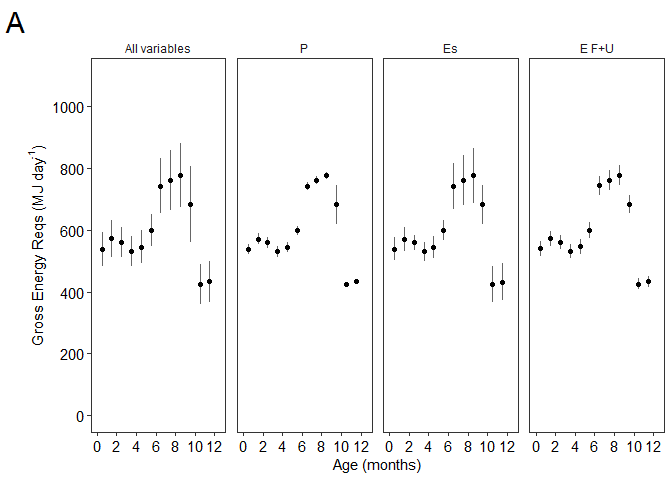
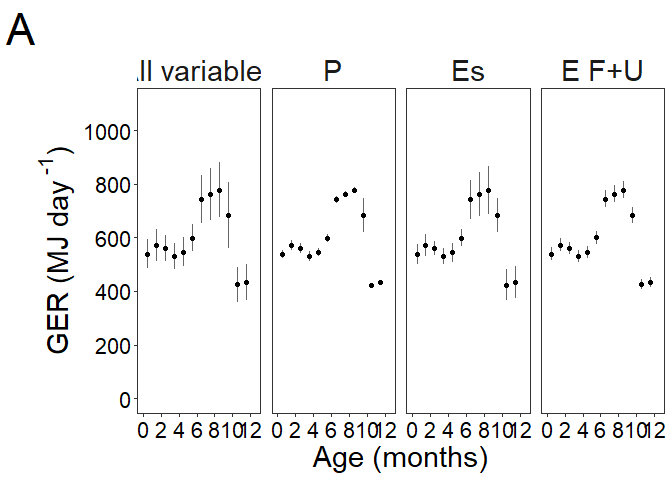
updating Es charts

diff --git a/results_for_paper/EnergeticsModeling_GreyWhales_Results_charts.md b/results_for_paper/EnergeticsModeling_GreyWhales_Results_charts.md
@@ -1,7 +1,7 @@
 ENERGY REQUIREMENTS OF GREY WHALES
 ================
 Selina Agbayani
-05 August, 2025
+06 August, 2025
 
 ## RESULTS
 
@@ -117,36 +117,6 @@ requirements (*GER*) for grey whale calves.
 Figure 15. Results for the sensitivity analysis on gross energy
 requirements (*GER*) for juveniles and non-reproductive adults.
 
-``` r
-multiplot(plot_predict_GER_sensAnalysis_phase1_permth,
-          plot_predict_GER_table_sensAnalysis_phase2,
-          cols=1)
-```
-
-![](EnergeticsModeling_GreyWhales_Results_charts_files/figure-gfm/panel%20plot%20Es%20sensitivity%20analysis%20all%20stages-1.png)<!-- -->
-
-``` r
-jpeg(filename = paste0(Figurespath,"/GER_sensanalysis_calves_juvadults_multiplot.jpg"), 
-     width = 2800,
-     height = 1500,
-     pointsize = 35, 
-     quality = 100, 
-     bg = "white", 
-     res = 300, 
-     restoreConsole = TRUE)
-
-
-p <- multiplot(plot_predict_GER_sensAnalysis_phase1_permth,
-          plot_predict_GER_table_sensAnalysis_phase2,
-          cols=1)
-
-
-dev.off()
-```
-
-    ## png 
-    ##   2
-
 #### Pregnant grey whales (assuming GER for foraging while pregnant includes first 6 months of lactation)
 
 ![](EnergeticsModeling_GreyWhales_Results_charts_files/figure-gfm/predict_GER_table_sensAnalysis_preg-1.png)<!-- -->
@@ -164,29 +134,52 @@ requirements (*GER*) for lactating females. GER calf represents the
 energy required for the last 3.6 months of nursing while mother and calf
 are in the foraging grounds.
 
+``` r
+multiplot(plot_predict_GER_sensAnalysis_phase1_permth,
+          plot_predict_GER_table_sensAnalysis_phase2,
+          plot_predict_GER_sensAnalysis_preg,  
+          plot_predict_GER_sensAnalysis_lact, 
+          cols=1)
+```
+
+![](EnergeticsModeling_GreyWhales_Results_charts_files/figure-gfm/panel%20plot%20Es%20sensitivity%20analysis%20all%20stages-1.png)<!-- -->
+
+``` r
+jpeg(filename = paste0(Figurespath,"/GER_sensanalysis_allstages_multiplot.jpg"), 
+     width = 5000,
+     height = 5000,
+     pointsize = 35, 
+     quality = 100, 
+     bg = "white", 
+     res = 300, 
+     restoreConsole = TRUE)
+
+
+p <- multiplot(plot_predict_GER_sensAnalysis_phase1_permth,
+          plot_predict_GER_table_sensAnalysis_phase2,
+          plot_predict_GER_sensAnalysis_preg,  
+          plot_predict_GER_sensAnalysis_lact, 
+          cols=1)
+
+
+dev.off()
+```
+
+    ## png 
+    ##   2
+
 ### Total energetic expenditure (*E<sub>s</sub>*)
 
 #### Grey whale calves
 
-    ## Error in `combine_vars()`:
-    ## ! Faceting variables must have at least one value.
+![](EnergeticsModeling_GreyWhales_Results_charts_files/figure-gfm/Es_sensAnalysis_phase1_permth-1.png)<!-- -->
 
 Figure 18. Results for the sensitivity analysis on total energetic
 expenditure (*E<sub>s</sub>*) for grey whale calves.
 
 #### Grey whale juveniles and adults, including pregnant and lactating females
 
-![](EnergeticsModeling_GreyWhales_Results_charts_files/figure-gfm/Es_sensAnalysis_alladults_preg_lact-1.png)<!-- -->
-
-    ## Error in `combine_vars()`:
-    ## ! Faceting variables must have at least one value.
-
-![](EnergeticsModeling_GreyWhales_Results_charts_files/figure-gfm/Es_sensAnalysis_alladults_preg_lact-2.png)<!-- -->
-
-    ## Error in `purrr::map()`:
-    ## ℹ In index: 1.
-    ## Caused by error in `combine_vars()`:
-    ## ! Faceting variables must have at least one value.
+![](EnergeticsModeling_GreyWhales_Results_charts_files/figure-gfm/Es_sensAnalysis_alladults_preg_lact-1.png)<!-- -->![](EnergeticsModeling_GreyWhales_Results_charts_files/figure-gfm/Es_sensAnalysis_alladults_preg_lact-2.png)<!-- -->![](EnergeticsModeling_GreyWhales_Results_charts_files/figure-gfm/Es_sensAnalysis_alladults_preg_lact-3.png)<!-- -->
 
 Figure 19. Results for the sensitivity analysis on *E<sub>s</sub>*
 (total energetic expenditure) for Juvenile and adult grey whales,
